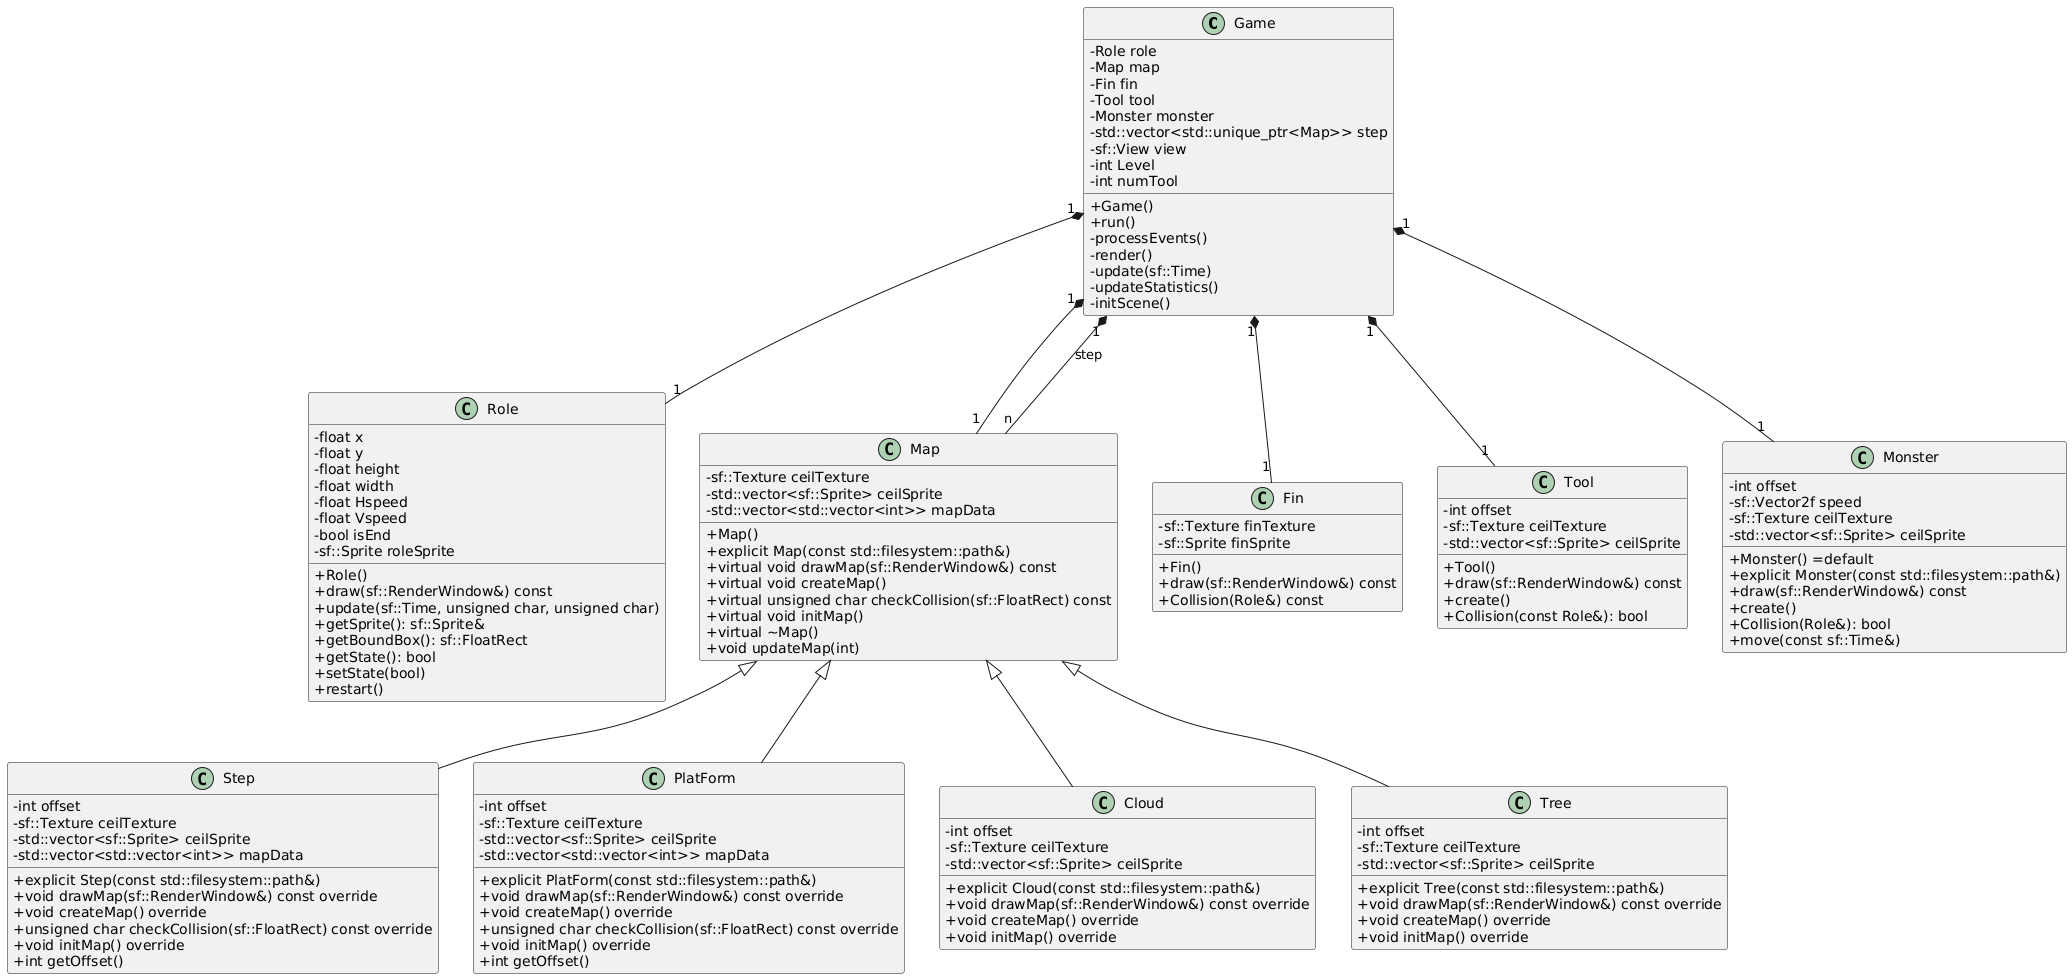
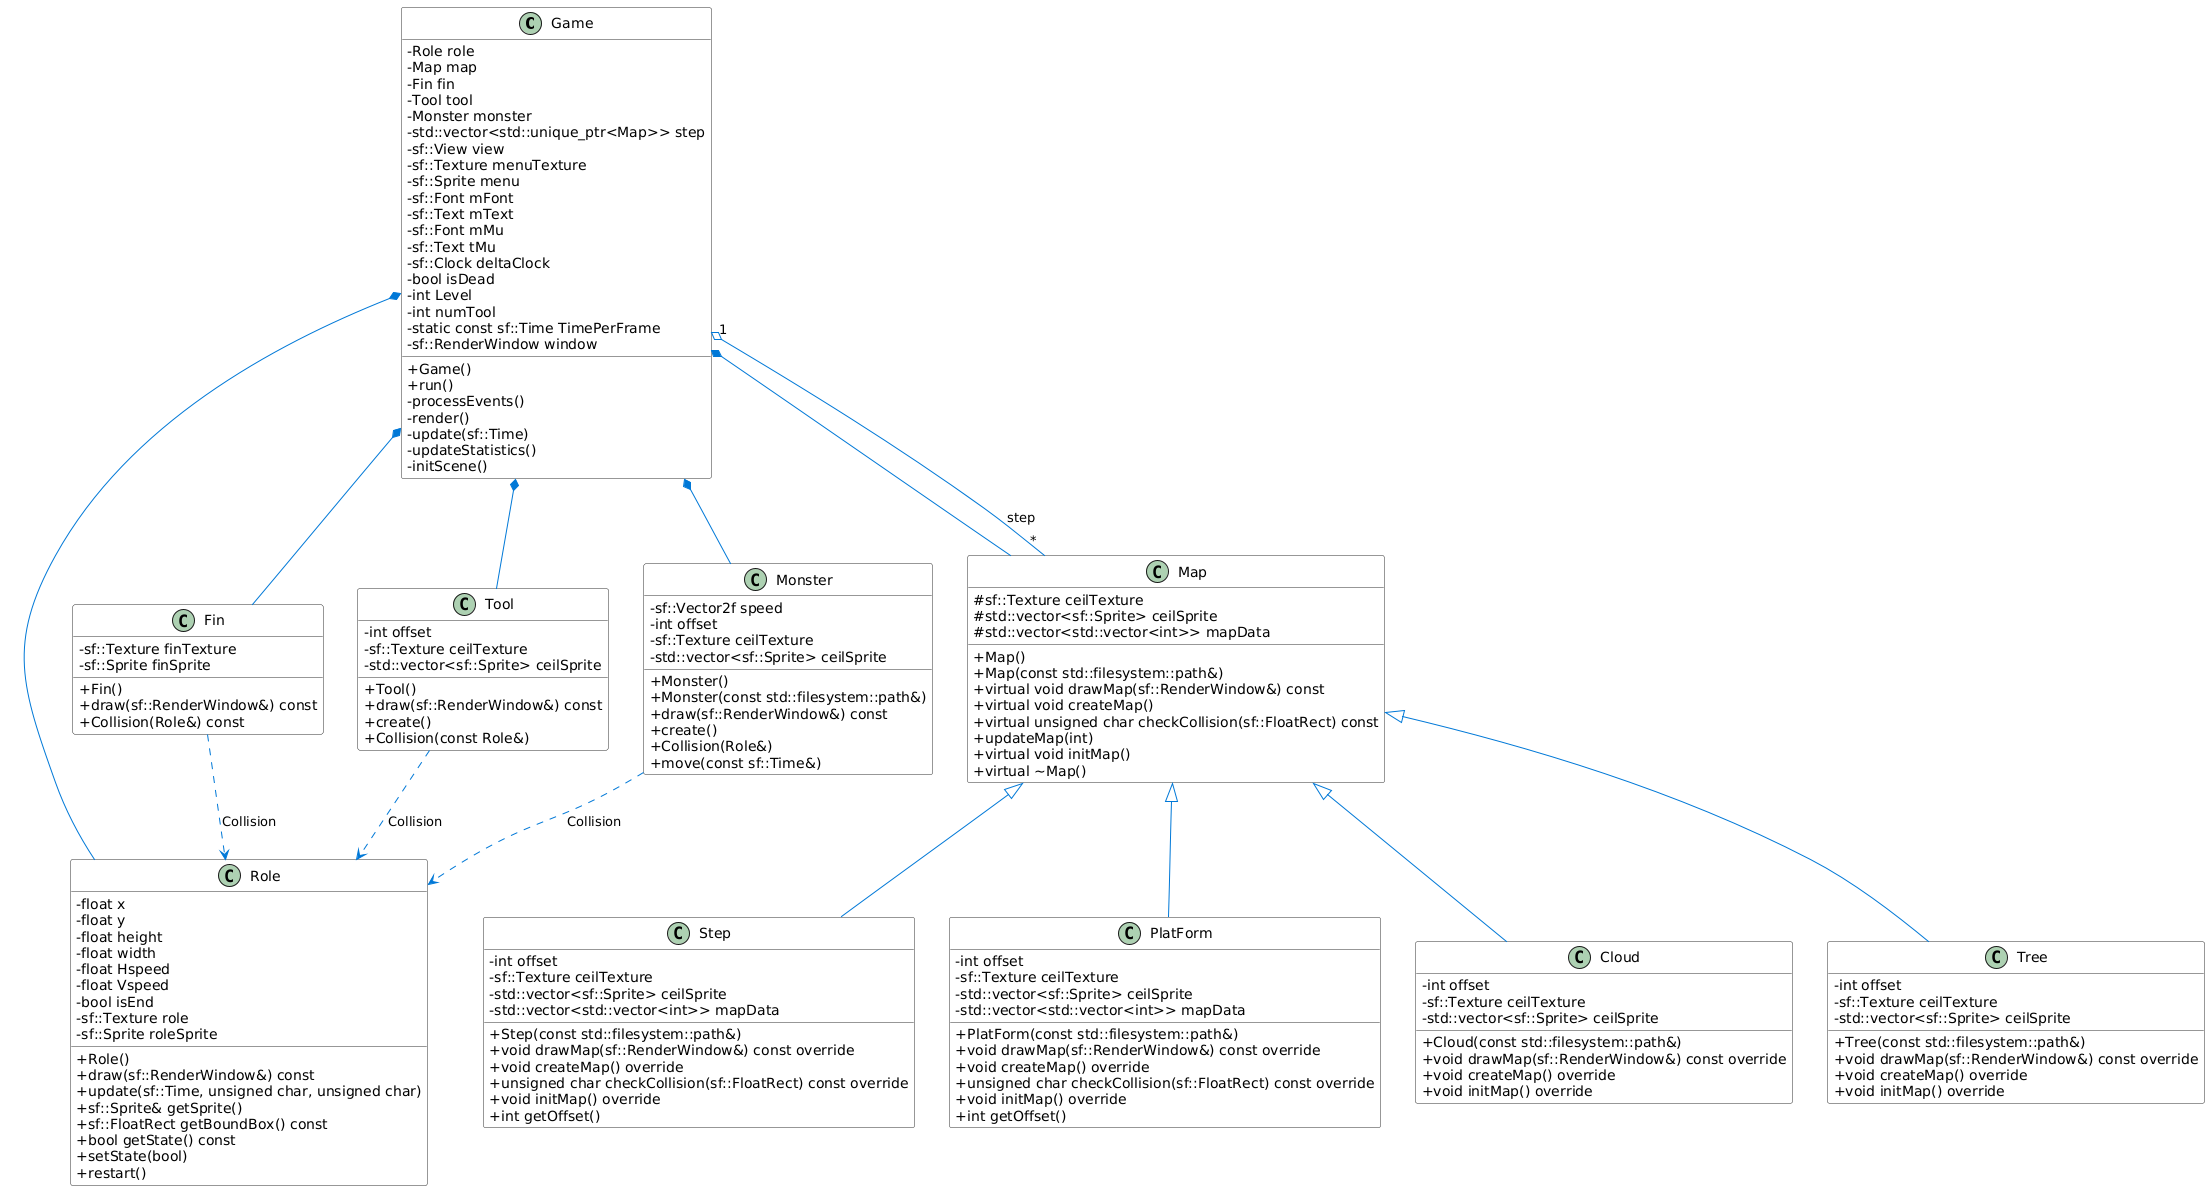
Final version

diff --git a/src/core/Game.cpp b/src/core/Game.cpp
@@ -33,7 +33,8 @@ Game::Game():
 	Level(0),
 	numTool(0){
 	//set the text in the game
-	mText.setPosition({100.f,10.f});//Level information
+	sf::Vector2f viewPos = window.mapPixelToCoords(sf::Vector2i(100, 10));
+	mText.setPosition(viewPos);//Level information
 	mText.setCharacterSize(20);
 	mText.setFillColor(sf::Color::Black);
 
@@ -72,8 +73,10 @@ void Game::initScene() {
 		auto tree = make_unique<Tree>("resources/xian.png");
 		step.push_back(std::move(tree));
 		
+		/*
 		monster = Monster("resources/bee.png");
 		monster.create();
+		*/
 	}
 	if (Level == 2) {
 		for (int i = 0; i < 4; i++) {
@@ -89,7 +92,7 @@ void Game::initScene() {
 		auto tree = make_unique<Tree>("resources/tree.png");
 		step.push_back(std::move(tree));
 
-		monster = Monster("resources/huang.png");
+		monster = Monster("resources/bee.png");
 		monster.create();
 	}
 	if (Level == 3) {
@@ -135,6 +138,9 @@ void Game::run() {
 			if (role.getState()&&Level!=0&&Level<3) {
 				Level++;
 				initScene();
+				numTool=0;
+				view.setCenter({ WIDTH / 2.f, view.getCenter().y });
+				window.setView(view);
 				role.setState(false);
 			}
 			
@@ -164,9 +170,8 @@ void Game::update(sf::Time elapsedTime) {
 		}
 		monster.move(elapsedTime);
 		//Check the collision with the monster
-		if (monster.Collision(role)) {
-			view.setCenter({ WIDTH / 2.f, view.getCenter().y });
-			window.setView(view);
+		if (monster.Collision(role)) {// role is death
+			isDead = true;
 		}
 		//Check the collision with the map
 		unsigned char isContact = 0;
@@ -206,6 +211,50 @@ void Game::render() {
 		fin.draw(window);
 		role.draw(window);
 		window.draw(mText);
+		//GUI render
+		if (isDead) {
+			ImGui::SFML::Update(window, deltaClock.restart());
+			ImGui::SetNextWindowPos(ImVec2(WIDTH / 2, HEIGHT / 2), ImGuiCond_Always, ImVec2(0.5f, 0.5f));
+			ImGui::SetNextWindowSize(ImVec2(150, 150), ImGuiCond_Always);
+			ImGui::Begin("Game Over", nullptr, ImGuiWindowFlags_NoResize | ImGuiWindowFlags_NoCollapse);
+			ImGui::Text("You Died!");
+			if (ImGui::Button("Restart", ImVec2(100, 50))) {
+				initScene();
+				role.restart();
+				isDead = false;
+				view.setCenter({ WIDTH / 2.f, view.getCenter().y });
+				window.setView(view);
+			}
+			ImGui::End();
+			ImGui::SFML::Render(window);
+		}
+		else {
+			ImGui::SFML::Update(window, deltaClock.restart());
+			ImGui::SetNextWindowPos(ImVec2(0, 0), ImGuiCond_Always);
+			ImGui::SetNextWindowSize(ImVec2(70, 130), ImGuiCond_Always);
+			ImGui::Begin("Set");
+			//Level choice
+			if (ImGui::Button("Exit")) {
+				Level = 0;
+			}
+			if (ImGui::Button("L1")) {
+				Level = 1;
+				initScene();
+				role.restart();
+			}
+			if (ImGui::Button("L2")) {
+				Level = 2;
+				initScene();
+				role.restart();
+			}
+			if (ImGui::Button("L3")) {
+				Level = 3;
+				initScene();
+				role.restart();
+			}
+			ImGui::End();
+			ImGui::SFML::Render(window);
+		}
 	}
 	else{//menu render
 		window.draw(menu);
@@ -213,13 +262,13 @@ void Game::render() {
 		//GUI render
 		ImGui::SFML::Update(window, deltaClock.restart());
 		ImGui::SetNextWindowPos(ImVec2(WIDTH/2, HEIGHT/2), ImGuiCond_Always, ImVec2(0.5f, 0.5f));
-		ImGui::SetNextWindowSize(ImVec2(200, 100), ImGuiCond_Always);
+		ImGui::SetNextWindowSize(ImVec2(150, 150), ImGuiCond_Always);
 		ImGui::Begin("Menu");
-		if (ImGui::Button("Start")) {
+		if (ImGui::Button("Start", ImVec2(100, 50))) {
 			Level++;
 			initScene();
 		}
-		if (ImGui::Button("End")) {
+		if (ImGui::Button("End", ImVec2(100, 50))) {
 			exit(0);
 		}
 		ImGui::End();
@@ -229,5 +278,7 @@ void Game::render() {
 }
 //the info about the level
 void Game::updateStatistics() {
+	sf::Vector2f pos = view.getCenter();
+	mText.setPosition({pos.x-50.f,10.f});
 	mText.setString(format("Level: {}/3 \t Tool Number: {}/{}", Level, numTool,NUMTOOL));
 }

diff --git a/src/core/Role.cpp b/src/core/Role.cpp
@@ -61,6 +61,9 @@ void Role::update(const sf::Time& elapsedTime, unsigned char isGround, unsigned 
 	if (roleSprite.getPosition().x +width> MAPWIDTH*CEILSIZE) {
 		x = MAPWIDTH * CEILSIZE -width;
 	}
+	if (roleSprite.getPosition().y > HEIGHT) {
+		restart();
+	}
 	roleSprite.setPosition({ x,y });
 	x = roleSprite.getPosition().x;
 	y = roleSprite.getPosition().y;

diff --git a/src/test/unitTests.cpp b/src/test/unitTests.cpp
@@ -161,6 +161,4 @@ TEST(MonsterTest, PlayerReset) {
     role.getSprite().setPosition({ 15 * CEILSIZE, HEIGHT - 3 * CEILSIZE });
     collided = monster.Collision(role);
     EXPECT_TRUE(collided);
-    EXPECT_FLOAT_EQ(role.getSprite().getPosition().x, 0);
-    EXPECT_FLOAT_EQ(role.getSprite().getPosition().y, 0);
 }

diff --git a/src/core/Map.cpp b/src/core/Map.cpp
@@ -87,7 +87,6 @@ bool Monster::Collision(Role& role) {
 	for (auto it = ceilSprite.begin(); it != ceilSprite.end(); it++) {
 		sf::FloatRect bound = it->getGlobalBounds();
 		if (const std::optional intersection = bound.findIntersection(boundBox)) {
-			role.restart();
 			return true;
 		}
 	}

diff --git a/src/core/Game.h b/src/core/Game.h
@@ -31,6 +31,7 @@ private:
 	sf::Font mMu;
 	sf::Text tMu{ mMu };
 	sf::Clock deltaClock;
+	bool isDead{false};
 
 	void processEvents();
 	void render();
